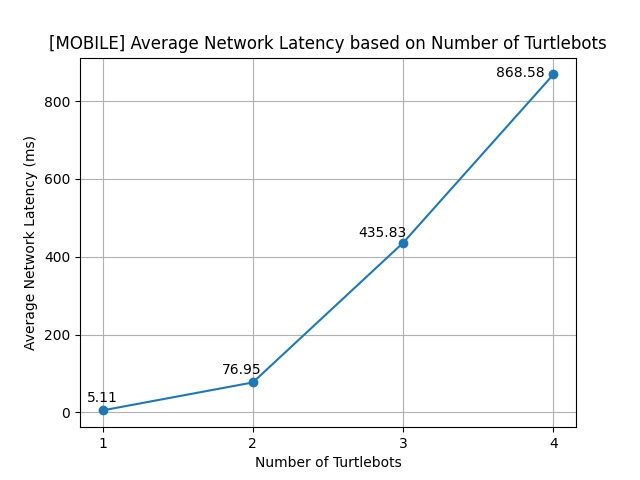
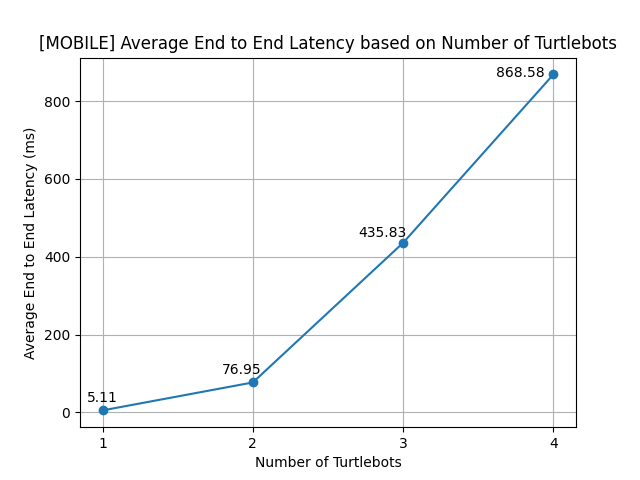
fix: adjust to path changes, inaccurate wording

Changed region(s): [[0.0625, 0.0625, 0.9688, 0.125], [0.0312, 0.25, 0.0625, 0.75]]

diff --git a/analytics/scripts/router/visualize_per_test.py b/analytics/scripts/router/visualize_per_test.py
@@ -1,17 +1,22 @@
 import matplotlib.pyplot as plt
+from pathlib import Path
+
+HERE = Path(__file__).parent
+DATA = HERE / "../../../data"
+ANALYSIS = HERE / "../../analysis"
 
 save_image = True
 latency_file_paths = [
-    "../../../data/router/latency/1.txt", 
-    "../../../data/router/latency/2.txt", 
-    "../../../data/router/latency/3.txt", 
-    "../../../data/router/latency/4.txt"
+    DATA / "router/cartographers/latency/1.txt",
+    DATA / "router/cartographers/latency/2.txt",
+    DATA / "router/cartographers/latency/3.txt",
+    DATA / "router/cartographers/latency/4.txt",
 ]
 message_count_file_paths = [
-    "../../../data/router/message_count/1.txt", 
-    "../../../data/router/message_count/2.txt", 
-    "../../../data/router/message_count/3.txt", 
-    "../../../data/router/message_count/4.txt"
+    DATA / "router/cartographers/message_count/1.txt",
+    DATA / "router/cartographers/message_count/2.txt",
+    DATA / "router/cartographers/message_count/3.txt",
+    DATA / "router/cartographers/message_count/4.txt",
 ]
 number_of_data_per_experiment = 10
 
@@ -27,10 +32,10 @@ plt.figure()
 for latency_file, message_count_file in zip(latency_file_paths, message_count_file_paths):
     with open(latency_file, "r") as f:
         latency_list = [float(line.strip()) for line in f if line.strip()]
-    
+
     with open(message_count_file, "r") as f:
         message_count_list = [int(line.strip()) for line in f if line.strip()]
-    
+
     averages = []
     index_offset = 0
     for message_count in message_count_list:
@@ -44,17 +49,17 @@ for latency_file, message_count_file in zip(latency_file_paths, message_count_fi
 
     x = list(range(1, len(averages) + 1))
 
-    plt.plot(x, averages, marker=".", label=f"{latency_file.split('/')[-1].split('.')[0]} turtlebots")
+    plt.plot(x, averages, marker=".", label=f"{latency_file.stem} turtlebots")
 
 plt.xticks([1, 2, 3, 4, 5])
 plt.xlim(1, 5)
 plt.xlabel("Experiment Index")
-plt.ylabel("Average Network Latency (ms)")
-plt.title("[SIMBA ROUTER] Average Network Latency per Test")
+plt.ylabel("Average End to End Latency (ms)")
+plt.title("[HUAWEI ROUTER] Average End to End Latency per Test")
 plt.grid(True)
 plt.legend()
 
 if save_image:
-    plt.savefig('../../analysis/router/average_latency_per_test.png')
+    plt.savefig(ANALYSIS / "router/average_latency_per_test.png")
 
 plt.show()

diff --git a/analytics/scripts/end_to_end/visualize_per_turtlebot.py b/analytics/scripts/end_to_end/visualize_per_turtlebot.py
@@ -1,14 +1,19 @@
 import matplotlib.pyplot as plt
+from pathlib import Path
+
+HERE = Path(__file__).parent
+DATA = HERE / "../../../data"
+ANALYSIS = HERE / "../../analysis"
 
 save_image = True
 
-# SIMBA ROUTER
+# HUAWEI ROUTER
 
 router_files = [
-    "../../../data/router/latency/1.txt", 
-    "../../../data/router/latency/2.txt", 
-    "../../../data/router/latency/3.txt", 
-    "../../../data/router/latency/4.txt"
+    DATA / "router/cartographers/latency/1.txt",
+    DATA / "router/cartographers/latency/2.txt",
+    DATA / "router/cartographers/latency/3.txt",
+    DATA / "router/cartographers/latency/4.txt",
 ]
 number_of_data_per_turtlebot = 50
 
@@ -30,10 +35,10 @@ for file in router_files:
 # MOBILE
 
 mobile_files = [
-    "../../../data/mobile/1.txt", 
-    "../../../data/mobile/2.txt", 
-    "../../../data/mobile/3.txt", 
-    "../../../data/mobile/4.txt"
+    DATA / "mobile/cartographers/1.txt",
+    DATA / "mobile/cartographers/2.txt",
+    DATA / "mobile/cartographers/3.txt",
+    DATA / "mobile/cartographers/4.txt",
 ]
 
 mobile_averages = []
@@ -51,12 +56,12 @@ mobile_offsets = [(0, 9), (0, 9), (2, 6), (-4, 2)]
 
 plt.figure()
 
-plt.plot(x, router_averages, marker="o", label="SIMBA Router")
+plt.plot(x, router_averages, marker="o", label="Huawei Router")
 plt.plot(x, mobile_averages, marker="o", label="Mobile")
 
 plt.xlabel("Number of Turtlebots")
-plt.ylabel("Average Network Latency (ms)")
-plt.title("[MOBILE VS SIMBA ROUTER] Average Network Latency per Turtlebot")
+plt.ylabel("Average End to End Latency (ms)")
+plt.title("[MOBILE VS HUAWEI ROUTER] Average End to End Latency per Turtlebot")
 plt.xticks(x)
 plt.grid(True)
 plt.legend()
@@ -80,6 +85,6 @@ for xi, yi, offset in zip(x, mobile_averages, mobile_offsets):
     )
 
 if save_image:
-    plt.savefig("../../analysis/network/average_latency_per_turtlebot.png")
+    plt.savefig(ANALYSIS / "end_to_end/average_latency_per_turtlebot.png")
 
 plt.show()

diff --git a/analytics/scripts/router/visualize_per_turtlebot.py b/analytics/scripts/router/visualize_per_turtlebot.py
@@ -1,11 +1,16 @@
 import matplotlib.pyplot as plt
+from pathlib import Path
+
+HERE = Path(__file__).parent
+DATA = HERE / "../../../data"
+ANALYSIS = HERE / "../../analysis"
 
 save_image = True
 files = [
-    "../../../data/router/latency/1.txt", 
-    "../../../data/router/latency/2.txt", 
-    "../../../data/router/latency/3.txt", 
-    "../../../data/router/latency/4.txt"
+    DATA / "router/cartographers/latency/1.txt",
+    DATA / "router/cartographers/latency/2.txt",
+    DATA / "router/cartographers/latency/3.txt",
+    DATA / "router/cartographers/latency/4.txt",
 ]
 offsets = [(0, 6), (-8, 6), (-15, 4), (-24, -2)]
 number_of_data_per_turtlebot = 50
@@ -32,8 +37,8 @@ x = list(range(1, len(files) + 1))
 plt.figure()
 plt.plot(x, averages, marker='o')
 plt.xlabel("Number of Turtlebots")
-plt.ylabel("Average Network Latency (ms)")
-plt.title("[ROUTER] Average Network Latency based on Number of Turtlebots")
+plt.ylabel("Average End to End Latency (ms)")
+plt.title("[HUAWEI ROUTER] Average End to End Latency based on Number of Turtlebots")
 plt.xticks(x)
 plt.grid(True)
 
@@ -47,6 +52,6 @@ for xi, yi, offset in zip(x, averages, offsets):
     )
 
 if save_image:
-    plt.savefig("../../analysis/router/average_latency_per_turtlebot.png")
+    plt.savefig(ANALYSIS / "router/average_latency_per_turtlebot.png")
 
 plt.show()

diff --git a/analytics/scripts/mobile/visualize_per_test.py b/analytics/scripts/mobile/visualize_per_test.py
@@ -1,11 +1,16 @@
 import matplotlib.pyplot as plt
+from pathlib import Path
+
+HERE = Path(__file__).parent
+DATA = HERE / "../../../data"
+ANALYSIS = HERE / "../../analysis"
 
 save_image = True
 files = [
-    "../../../data/mobile/1.txt", 
-    "../../../data/mobile/2.txt", 
-    "../../../data/mobile/3.txt", 
-    "../../../data/mobile/4.txt"
+    DATA / "mobile/cartographers/1.txt",
+    DATA / "mobile/cartographers/2.txt",
+    DATA / "mobile/cartographers/3.txt",
+    DATA / "mobile/cartographers/4.txt",
 ]
 number_of_data_per_experiment = 10
 
@@ -23,17 +28,17 @@ for file in files:
 
     x = list(range(1, len(chunk_averages) + 1))
 
-    plt.plot(x, chunk_averages, marker=".", label=f"{file.split('/')[-1].split('.')[0]} turtlebots")
+    plt.plot(x, chunk_averages, marker=".", label=f"{file.stem} turtlebots")
 
 plt.xticks([1, 2, 3, 4, 5])
 plt.xlim(1, 5)
 plt.xlabel("Experiment Index")
-plt.ylabel("Average Network Latency (ms)")
-plt.title("[MOBILE] Average Network Latency per Test")
+plt.ylabel("Average End to End Latency (ms)")
+plt.title("[MOBILE] Average End to End Latency per Test")
 plt.grid(True)
 plt.legend()
 
 if save_image:
-    plt.savefig('../../analysis/mobile/average_latency_per_test.png')
+    plt.savefig(ANALYSIS / "mobile/average_latency_per_test.png")
 
 plt.show()

diff --git a/analytics/scripts/mobile/visualize_per_turtlebot.py b/analytics/scripts/mobile/visualize_per_turtlebot.py
@@ -1,11 +1,16 @@
 import matplotlib.pyplot as plt
+from pathlib import Path
+
+HERE = Path(__file__).parent
+DATA = HERE / "../../../data"
+ANALYSIS = HERE / "../../analysis"
 
 save_image = True
 files = [
-    "../../../data/mobile/1.txt", 
-    "../../../data/mobile/2.txt", 
-    "../../../data/mobile/3.txt", 
-    "../../../data/mobile/4.txt"
+    DATA / "mobile/cartographers/1.txt",
+    DATA / "mobile/cartographers/2.txt",
+    DATA / "mobile/cartographers/3.txt",
+    DATA / "mobile/cartographers/4.txt",
 ]
 offsets = [(0, 6), (-8, 6), (-15, 4), (-24, -2)]
 
@@ -22,8 +27,8 @@ x = list(range(1, len(files) + 1))
 plt.figure()
 plt.plot(x, averages, marker='o')
 plt.xlabel("Number of Turtlebots")
-plt.ylabel("Average Network Latency (ms)")
-plt.title("[MOBILE] Average Network Latency based on Number of Turtlebots")
+plt.ylabel("Average End to End Latency (ms)")
+plt.title("[MOBILE] Average End to End Latency based on Number of Turtlebots")
 plt.xticks(x)
 plt.grid(True)
 
@@ -37,6 +42,6 @@ for xi, yi, offset in zip(x, averages, offsets):
     )
 
 if save_image:
-    plt.savefig("../../analysis/mobile/average_latency_per_turtlebot.png")
+    plt.savefig(ANALYSIS / "mobile/average_latency_per_turtlebot.png")
 
 plt.show()
